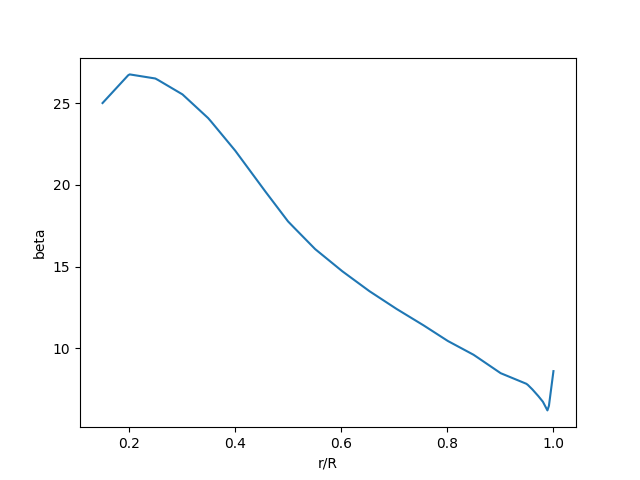
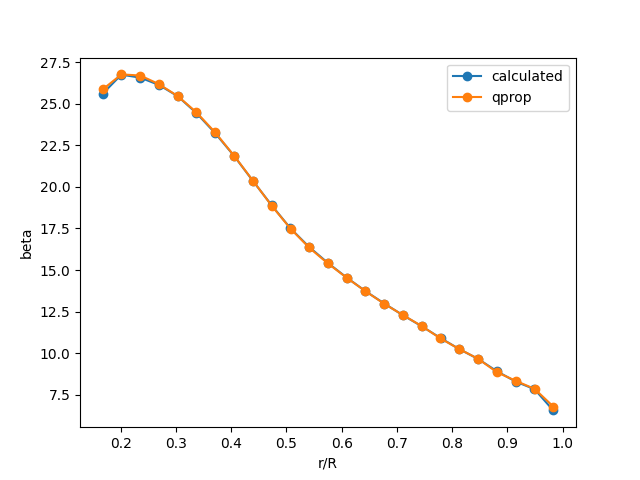
区間の離散化を完全にそろえて、betaとc_Rの入力が一致していることを確認した

diff --git a/perform_analysis_qprop.py b/perform_analysis_qprop.py
@@ -14,12 +14,17 @@ rho = 1.225
 omega = RPM * 2 * math.pi / 60
 B = 2
 V = 0.0
-CL0 = 0.1  # example
+CL0 = math.radians(-6)  # example
 DCLDA = 2 * math.pi  # example
 
 # arrays for r/R
-n = 300
-r_R = np.linspace(0.15, 1, n)
+n = 25
+start = 0.15
+end = 1.0
+# 区間の端点を取得
+edges = np.linspace(start, end, n+1)
+# 各区間の中心を計算
+r_R = (edges[:-1] + edges[1:]) / 2
 r = r_R * R
 
 # load gemoetry txt and interpolate it to r/R
@@ -48,16 +53,7 @@ plt.plot(alpha, airfoil_cd)
 plt.xlabel('alpha')
 plt.ylabel('cd')
 plt.savefig('./debug/cd.png')
-plt.clf()
-plt.plot(r_R, c_R)
-plt.xlabel('r/R')
-plt.ylabel('c_R')
-plt.savefig('./debug/c_R.png')
-plt.clf()
-plt.plot(r_R, beta)
-plt.xlabel('r/R')
-plt.ylabel('beta')
-plt.savefig('./debug/beta.png')
+
 plt.clf()
 
 psi = np.zeros(len(r_R))
@@ -130,26 +126,43 @@ gamma = vt * 4 * math.pi * r / B * F * np.sqrt(1 + (4 * lamda * R / (math.pi * B
 qprop = np.loadtxt('qprop_validation.txt')
 qprop_r_R = qprop[:, 0] / R
 qprop_c_R = qprop[:, 1] / R
+qprop_beta = qprop[:, 2]
 qprop_Wa  = qprop[:, 9]
 qprop_cl  = qprop[:, 3]
+# plot c_R
+plt.clf()
+plt.plot(r_R, c_R, marker='o',label='calculated')
+plt.plot(qprop_r_R, qprop_c_R, marker='o',label='qprop')
+plt.legend()
+plt.xlabel('r/R')
+plt.ylabel('c_R')
+plt.savefig('./debug/c_R.png')
+# plot beta
+plt.clf()
+plt.plot(r_R, beta, marker='o',label='calculated')
+plt.plot(qprop_r_R, qprop_beta, marker='o',label='qprop')
+plt.legend()
+plt.xlabel('r/R')
+plt.ylabel('beta')
+plt.savefig('./debug/beta.png')
 # plot gamma
 plt.clf()
 plt.plot(r_R, -va/340*F)
 plt.xlabel('r/R')
 plt.ylabel('va')
 plt.savefig('./debug/va.png')
-plt.clf()
 # plot Wa
-plt.plot(r_R, Wa, label='calculated')
-plt.plot(qprop_r_R, qprop_Wa, label='qprop')
+plt.clf()
+plt.plot(r_R, Wa, marker='o', label='calculated')
+plt.plot(qprop_r_R, qprop_Wa,  marker='o',label='qprop')
 plt.legend()
 plt.xlabel('r/R')
 plt.ylabel('Wa')
 plt.savefig('./debug/Wa.png')
 #plot cl
 plt.clf()
-plt.plot(r_R, cl, label='calculated')
-plt.plot(qprop_r_R, qprop_cl, label='qprop')
+plt.plot(r_R, cl, marker='o', label='calculated')
+plt.plot(qprop_r_R, qprop_cl, marker='o', label='qprop')
 plt.legend()
 plt.xlabel('r/R')
 plt.ylabel('cl')
